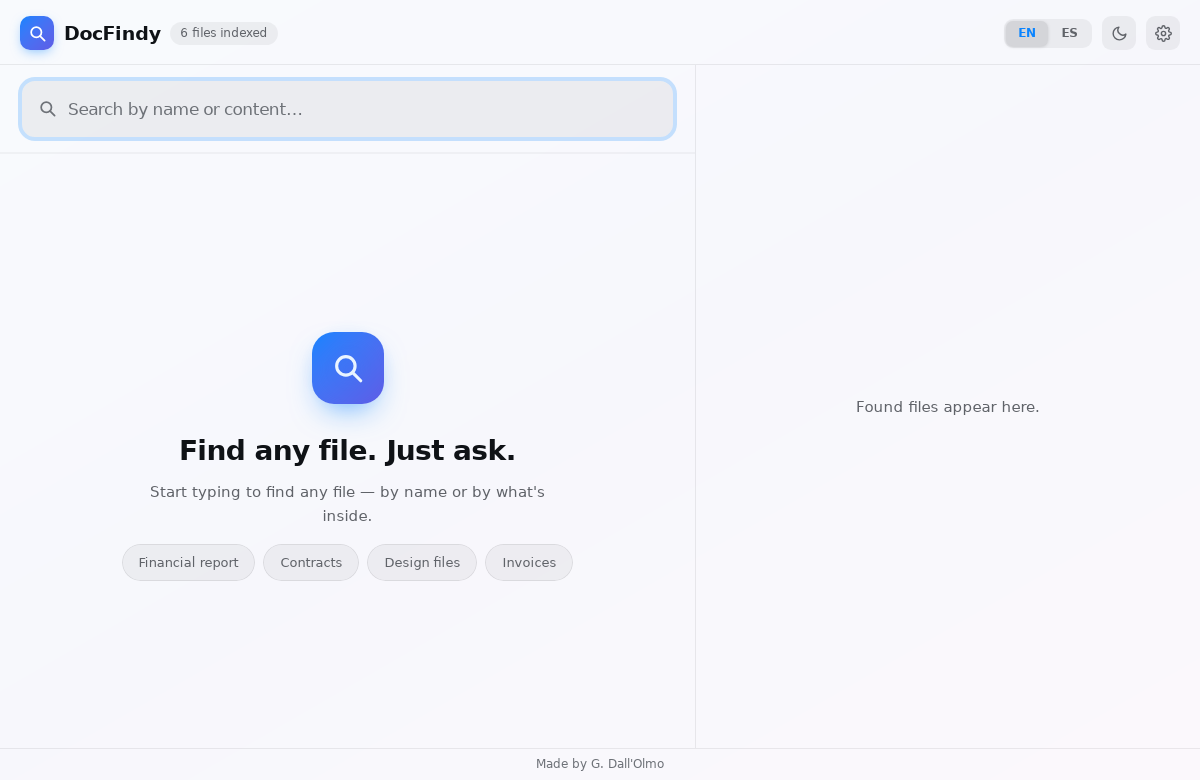
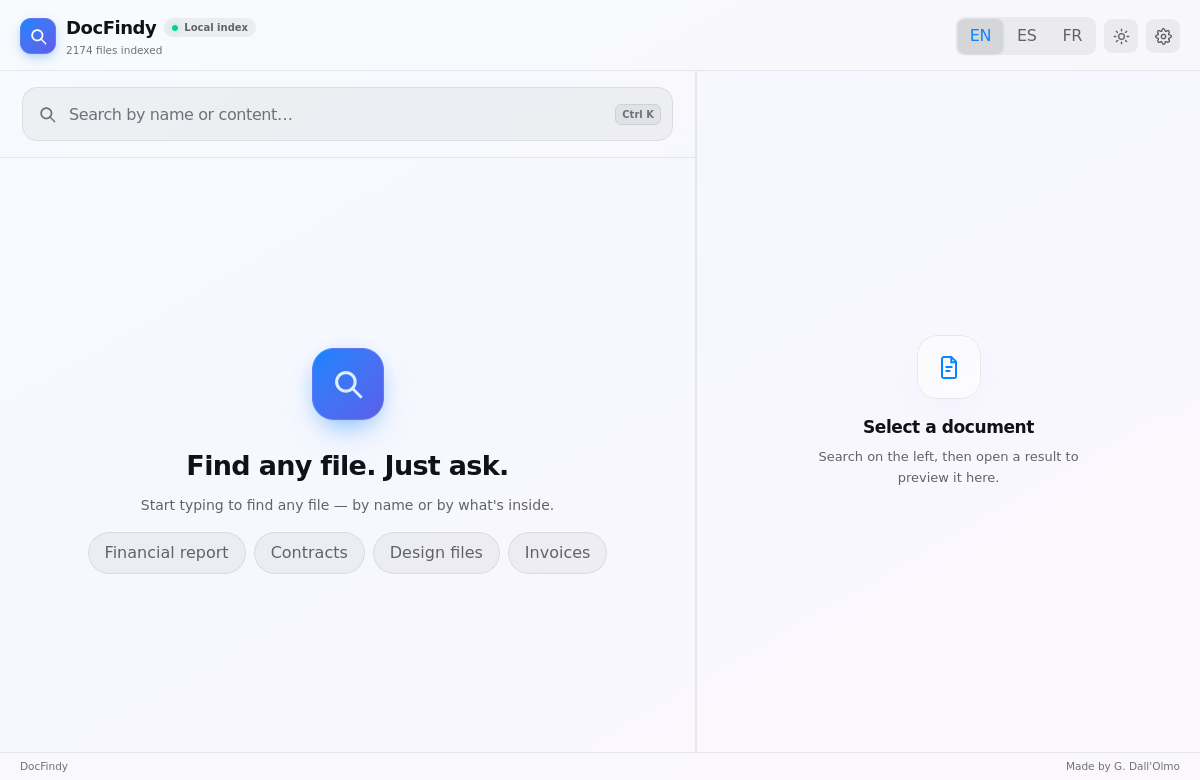
Refresh the screenshots and document provider selection
The onboarding shot still said "Claude API key" and predated the provider
row, and there was no picture of Settings at all — the one screen the
multi-provider work actually changed.

Adds a capture script so this stops drifting. It drives the mocked UI
through WebKitGTK rather than a headless Chromium: that is the engine the
Linux build ships with, so the images show what the app renders instead of
what another browser makes of the same CSS. It waits on a marker element
per shot rather than a fixed delay, because a click that lands before
React mounts fails silently and yields a screenshot of the wrong screen.

All four images are regenerated together so they match; search.png and
light-theme.png also pick up UI drift since they were last taken (index
badge, FR toggle, empty preview pane).

The mock gains a `?mock=fresh` flag to reach the first-run state without
clearing anything.

diff --git a/src/dev/tauri-mock.ts b/src/dev/tauri-mock.ts
@@ -164,6 +164,8 @@ const settings = {
   models: { anthropic: "claude-sonnet-5" },
 };
 
+const FRESH = new URLSearchParams(location.search).get("mock") === "fresh";
+
 const delay = <T,>(v: T, ms = 120) => new Promise<T>((r) => setTimeout(() => r(v), ms));
 
 export async function invoke<T = unknown>(cmd: string, args?: Record<string, unknown>): Promise<T> {
@@ -185,7 +187,13 @@ export async function invoke<T = unknown>(cmd: string, args?: Record<string, unk
     case "open_provider_keys_page":
       return delay(undefined as T);
     case "index_status":
-      return delay({ exists: true, files: 2174, roots: settings.roots } as T);
+      // ?mock=fresh reproduces a first run, so the onboarding screen can be
+      // reached (and screenshotted) without clearing anything.
+      return delay(
+        (FRESH
+          ? { exists: false }
+          : { exists: true, files: 2174, roots: settings.roots }) as T,
+      );
     case "quick_search":
     case "smart_search": {
       const q = String((args?.query as string) ?? "");

diff --git a/docs/screenshots/capture.py b/docs/screenshots/capture.py
@@ -1,0 +1,167 @@
+#!/usr/bin/env python3
+"""Regenerate docs/screenshots/*.png from the mocked UI.
+
+    VITE_MOCK=1 npm run dev              # terminal 1
+    python3 docs/screenshots/capture.py  # terminal 2
+
+Renders through WebKitGTK — the same engine the Linux build ships with — so
+the screenshots show what the app actually looks like rather than what another
+browser would make of the same CSS.
+
+Needs the GTK introspection bindings:
+    sudo apt install gir1.2-webkit2-4.1 python3-gi
+"""
+
+import os
+import sys
+
+import gi
+
+gi.require_version("Gtk", "3.0")
+gi.require_version("WebKit2", "4.1")
+from gi.repository import GLib, Gtk, WebKit2  # noqa: E402
+
+OUT = os.path.dirname(os.path.abspath(__file__))
+BASE = os.environ.get("BASE_URL", "http://localhost:1420")
+WIDTH, HEIGHT = 1200, 780
+
+def click_when_ready(selector):
+    """Click as soon as React has mounted the element.
+
+    A fixed delay is not enough: how long the first render takes moves with
+    machine load, and a click that lands early fails silently, leaving a
+    screenshot of the wrong screen.
+    """
+    sel = repr(selector)
+    return (
+        f"(function attempt(n) {{"
+        f"  const el = document.querySelector({sel});"
+        f"  if (el) return el.click();"
+        f"  if (n > 0) setTimeout(() => attempt(n - 1), 150);"
+        f"}})(30)"
+    )
+
+
+# (filename, url, javascript run once loaded, selector that must exist before
+#  the grab, extra settle time)
+SHOTS = [
+    ("onboarding.png", f"{BASE}/?mock=fresh", "", "input[type=password]", 0.6),
+    (
+        "search.png",
+        BASE,
+        "document.querySelector('input')?.focus()",
+        "input",
+        0.4,
+    ),
+    (
+        "settings.png",
+        BASE,
+        click_when_ready('button[title="Settings"]'),
+        # the model count only appears once the mocked list has resolved
+        "select",
+        1.2,
+    ),
+    (
+        "light-theme.png",
+        BASE,
+        "localStorage.setItem('docfindy.theme','light');"
+        "document.documentElement.classList.add('light')",
+        "html.light",
+        0.5,
+    ),
+]
+
+
+class Capture:
+    def __init__(self):
+        self.queue = list(SHOTS)
+        self.failures = []
+
+        self.window = Gtk.OffscreenWindow()
+        self.window.set_default_size(WIDTH, HEIGHT)
+        self.view = WebKit2.WebView()
+        self.view.set_size_request(WIDTH, HEIGHT)
+        self.window.add(self.view)
+        self.window.show_all()
+        self.view.connect("load-changed", self.on_load)
+
+    def next_shot(self):
+        if not self.queue:
+            Gtk.main_quit()
+            return
+        self.name, url, self.script, self.expect, self.settle = self.queue.pop(0)
+        self.waited = 0.0
+        # Each shot starts from a clean slate: the theme is persisted, and a
+        # leftover value would silently colour the next screenshot.
+        self.view.load_uri(url)
+
+    def on_load(self, _view, event):
+        if event != WebKit2.LoadEvent.FINISHED:
+            return
+        GLib.timeout_add(900, self.run_script)
+
+    def run_script(self):
+        if self.script:
+            self.view.run_javascript(self.script, None, None, None)
+        GLib.timeout_add(200, self.wait_for_expected)
+        return False
+
+    def wait_for_expected(self):
+        """Poll until the shot's marker element is on the page, then settle."""
+        self.view.run_javascript(
+            f"!!document.querySelector({self.expect!r})", None, self.on_expected, None
+        )
+        return False
+
+    def on_expected(self, view, result, _data):
+        try:
+            found = view.run_javascript_finish(result).get_js_value().to_boolean()
+        except GLib.Error:
+            found = False
+        if found:
+            GLib.timeout_add(int(self.settle * 1000), self.snap)
+            return
+        self.waited += 0.2
+        if self.waited > 10:
+            self.failures.append(f"{self.name}: {self.expect} never appeared")
+            print(f"FAILED {self.name}: {self.expect} never appeared", file=sys.stderr)
+            GLib.timeout_add(100, lambda: (self.next_shot(), False)[1])
+            return
+        GLib.timeout_add(200, self.wait_for_expected)
+
+    def snap(self):
+        # Pull the pixels off the offscreen window as a GdkPixbuf rather than
+        # through WebKit's own snapshot API: that one hands back a
+        # cairo.Surface, which needs pycairo, which is one dependency more than
+        # this script is worth. Flush pending draws first, or the grab can
+        # catch a half-painted frame.
+        while Gtk.events_pending():
+            Gtk.main_iteration()
+        pixbuf = self.window.get_pixbuf()
+        if pixbuf is None:
+            self.failures.append(f"{self.name}: offscreen window had no pixels")
+            print(f"FAILED {self.name}: no pixels", file=sys.stderr)
+        else:
+            path = os.path.join(OUT, self.name)
+            pixbuf.savev(path, "png", [], [])
+            print(f"wrote {self.name} ({pixbuf.get_width()}x{pixbuf.get_height()})")
+        # clear the persisted theme before the next page
+        self.view.run_javascript(
+            "localStorage.removeItem('docfindy.theme')", None, None, None
+        )
+        GLib.timeout_add(200, lambda: (self.next_shot(), False)[1])
+        return False
+
+
+def main():
+    cap = Capture()
+    GLib.timeout_add(300, lambda: (cap.next_shot(), False)[1])
+    # hard stop, so a page that never finishes loading cannot hang a CI run
+    GLib.timeout_add_seconds(120, Gtk.main_quit)
+    Gtk.main()
+    if cap.failures:
+        sys.exit("\n".join(cap.failures))
+
+
+if __name__ == "__main__":
+    main()

diff --git a/README.md b/README.md
@@ -17,6 +17,8 @@ Desktop file finder that searches **inside** your documents, not just their name
 
 With an API key you also get: an on-demand AI summary of the previewed document, ask-a-question about the open document, and smart search that expands your query with synonyms and FR/EN translations before hitting the index.
 
+**Bring your own provider.** Claude, ChatGPT or Kimi — pick one in Settings and paste that provider's key. Each key is stored separately, so switching provider does not make you re-enter the other one. The model list is fetched from the provider itself, so a newly released model is selectable without waiting for a DocFindy update.
+
 **The API key is optional.** Without it, indexing, search, preview and open all work; AI actions remain visible but ask you to configure a key when used.
 
 ## Screenshots
@@ -26,6 +28,12 @@ With an API key you also get: an on-demand AI summary of the previewed document,
 Pick the folders to index. The API key field can be left empty.
 
 ![Onboarding screen](docs/screenshots/onboarding.png)
+
+### Settings
+
+Choose the AI provider, store its key, and pick a model from the list the provider reports.
+
+![Settings panel](docs/screenshots/settings.png)
 
 ### Light theme
 
@@ -65,12 +73,23 @@ npm run tauri build    # production bundle
 | **docfindy-engine** (Python sidecar) | Walks the chosen roots, extracts text from pdf/docx/odt/plain files, maintains the SQLite FTS5 index. Only dependency: `pypdf` |
 | **rtk** (Rust sidecar) | [Rust Token Killer](https://github.com/rtk-ai/rtk) — compresses filesystem probe output before it enters the model context (60-90% fewer tokens) |
 | **caveman** | [Terse-output prompt rules](https://github.com/JuliusBrussee/caveman) baked into the agent system prompt (~65% fewer output tokens) |
-| **React 19 + Tailwind 4** | Search UI, rich preview pane, theme and EN/ES toggles |
+| **React 19 + Tailwind 4** | Search UI, rich preview pane, theme and EN/ES/FR toggles |
 
 The frontend can also run standalone in a browser: `src/dev/tauri-mock.ts` stubs the Tauri commands with sample data, which is handy for UI work without a Rust rebuild.
 
 ```bash
 VITE_MOCK=1 npm run dev
+```
+
+Add `?mock=fresh` to the URL to get the first-run state (empty index) instead of
+the seeded one.
+
+The screenshots in this README are regenerated from that mocked UI, through
+WebKitGTK — the engine the Linux build ships with, so they show the real thing:
+
+```bash
+VITE_MOCK=1 npm run dev              # terminal 1
+python3 docs/screenshots/capture.py  # terminal 2
 ```
 
 ### Agent tools
@@ -168,7 +187,9 @@ Artifact: `docfindy-windows-installer`.
 
 **Nothing is found even though the file exists.** Check that its folder is in your indexed roots (⚙ → folders), and that the file type is supported. Rebuild with ⚙ → rebuild index after adding folders.
 
-**AI actions report that no key is configured.** Add one in ⚙; instant search works without it.
+**AI actions report that no key is configured.** Add one in ⚙ for the provider you selected — keys are per provider, so a Claude key does not cover ChatGPT. Instant search works without any key.
+
+**The model list will not load.** It is fetched from the provider, so it needs a saved, valid key and network access. When it fails the field falls back to free text — type the model id and it is used as-is.
 
 **Blank window or GPU warnings on WSL.** WSLg has no working DRI3 device. Run with software rendering:
 
@@ -191,6 +212,7 @@ src-tauri/src/   Rust core
   migrate.rs       Pre-rename data migration
   secrets.rs       Keychain + file fallback
   rtk.rs           rtk-compressed filesystem probe
+docs/screenshots/  README images + capture.py that regenerates them
 ```
 
 ---
